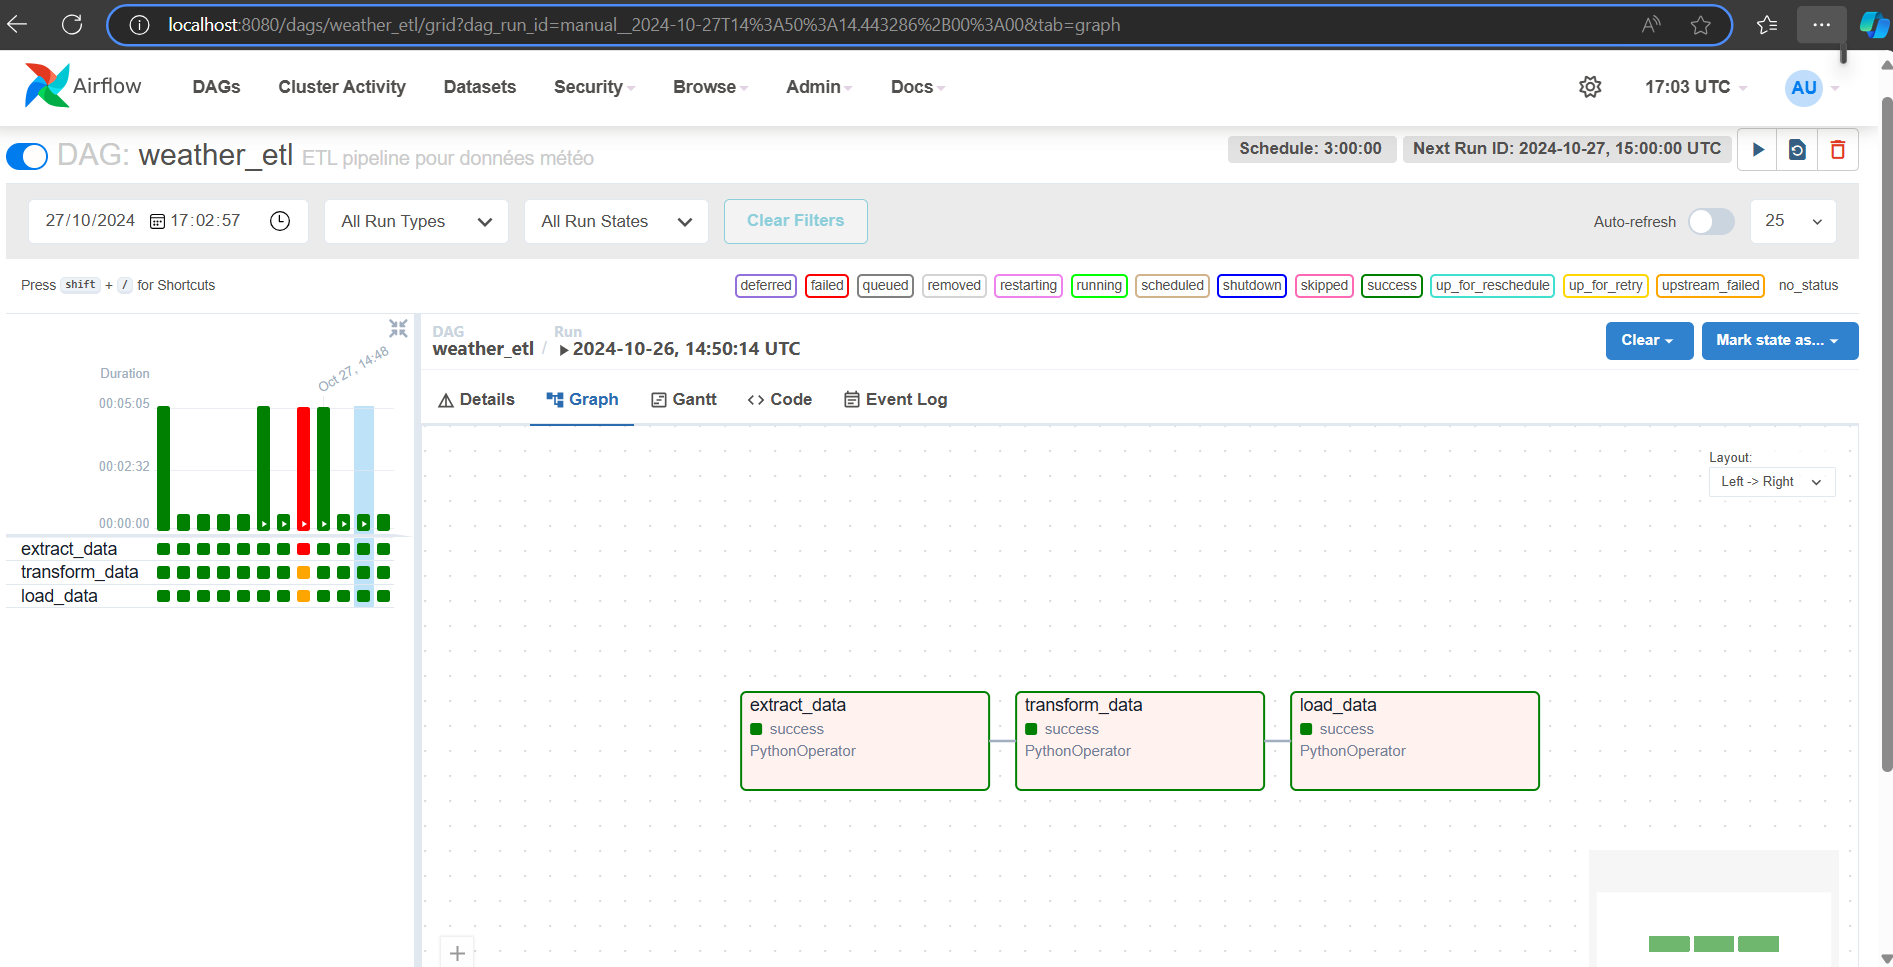
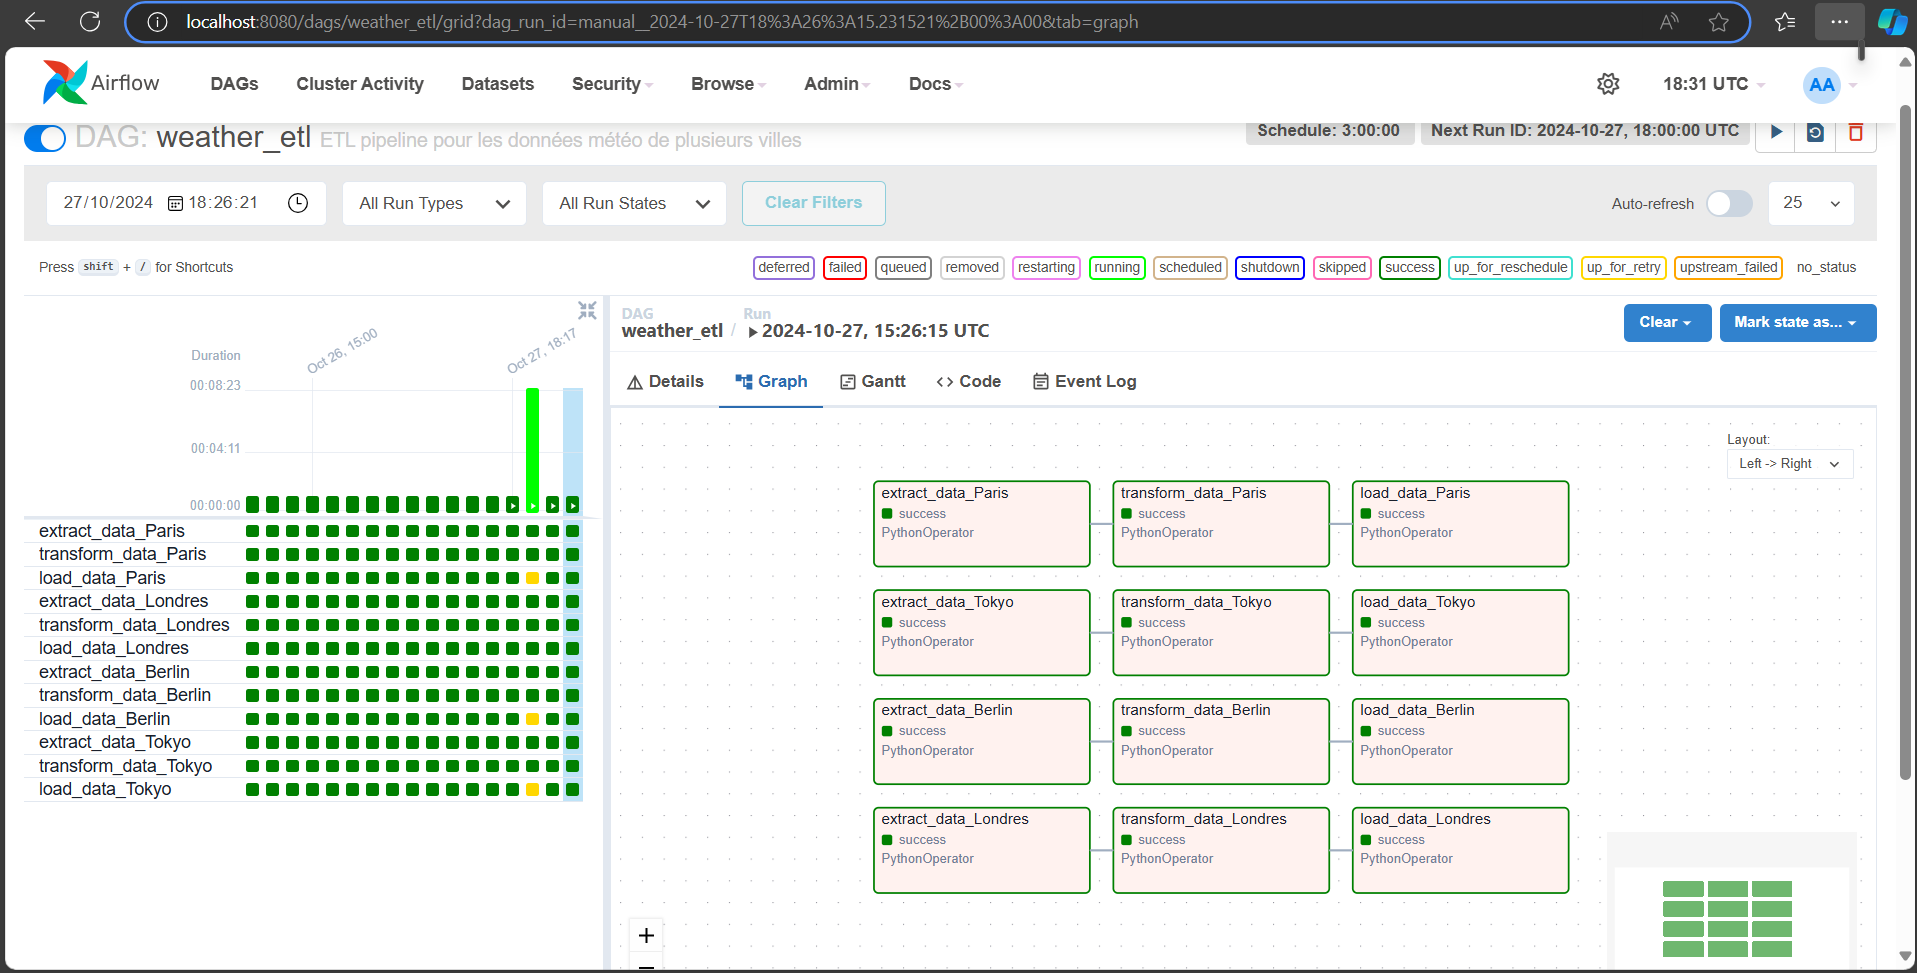
multi site

Changed region(s): [[0.0, 0.0, 1.0, 1.0], [0.4987, 0.3723, 0.5922, 0.4033], [0.0935, 0.3413, 0.1247, 0.4033]]

diff --git a/dags/weather_etl.py b/dags/weather_etl.py
@@ -13,9 +13,9 @@ default_args = {
     'owner': 'airflow',  # Le propriétaire du DAG
     'depends_on_past': False,  # Ne dépend pas des exécutions passées
     'start_date': pendulum.today('UTC').add(days=-1),  # Commence à "hier" pour s'assurer que le DAG s'exécute dès son lancement
-    'email_on_failure': False,  # Pas d'alerte email en cas d'échec
-    'email_on_retry': False,  # Pas d'alerte email en cas de retry
-    'retries': 1,  # Nombre de tentatives en cas d'échec
+    'email_on_failure': False,  
+    'email_on_retry': False,   
+    'retries': 2,  # Nombre de tentatives en cas d'échec
     'retry_delay': timedelta(minutes=5),  # Intervalle entre chaque retry
 }
 

diff --git a/readme.md b/readme.md
@@ -6,6 +6,7 @@
 
 Ce projet implémente un pipeline ETL (Extract, Transform, Load) pour les données météorologiques à l'aide d'Apache Airflow, Python et Docker. Le pipeline extrait les données de prévisions météorologiques de l'API OpenWeatherMap (https://openweathermap.org/api/forecast30), les transforme dans un format approprié et les charge dans une base de données PostgreSQL. Les données sont ensuite analysées et visualisées à l'aide de Jupyter Notebook (``  extract_task >> transform_task >> load_task  ``).
 
+
 ## Caractéristiques
 
 - **Extraction de données** : récupère les données de prévisions météorologiques à partir de l'API OpenWeatherMap.
@@ -41,7 +42,8 @@ Ce projet implémente un pipeline ETL (Extract, Transform, Load) pour les donné
 4. Accédez à l'interface Web Airflow à l'adresse « http://localhost:8080 ».
 
 ## Utilisation
-- Par défaut les données météologiques de la ville de Paris ont été utilisées.
+- Par défaut les données météologiques des villes suivantes ont été utilisées, il s'agit de :
+    'Paris', 'Londres', 'Berlin', 'Tokyo'
 - J'ai configuré le DAG pour qu'il s'exécute toutes les 3 heures parceque l'API OpenWeatherMap fournit des prévisions météorologiques sur 5 jours avec un pas de 3 heures. [voir doc](https://openweathermap.org/api/forecast30)
 - La clé API est laissé publique parcequ'il est gratuit.
 
